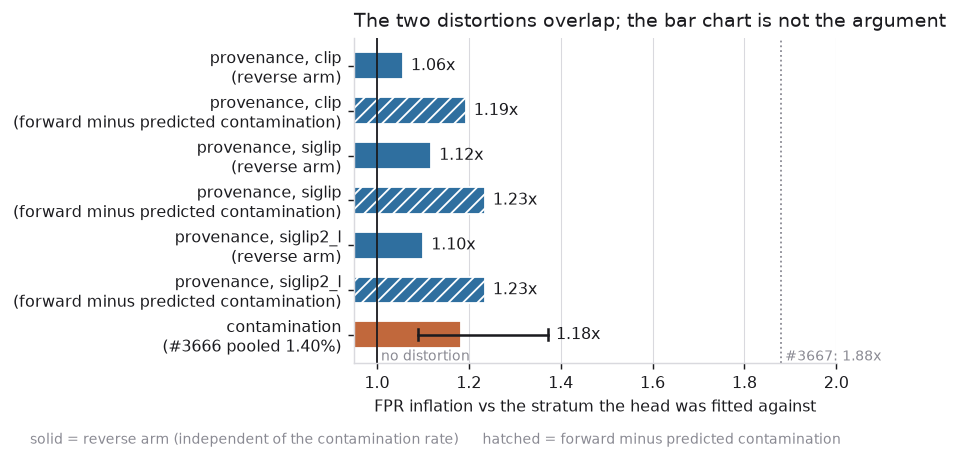
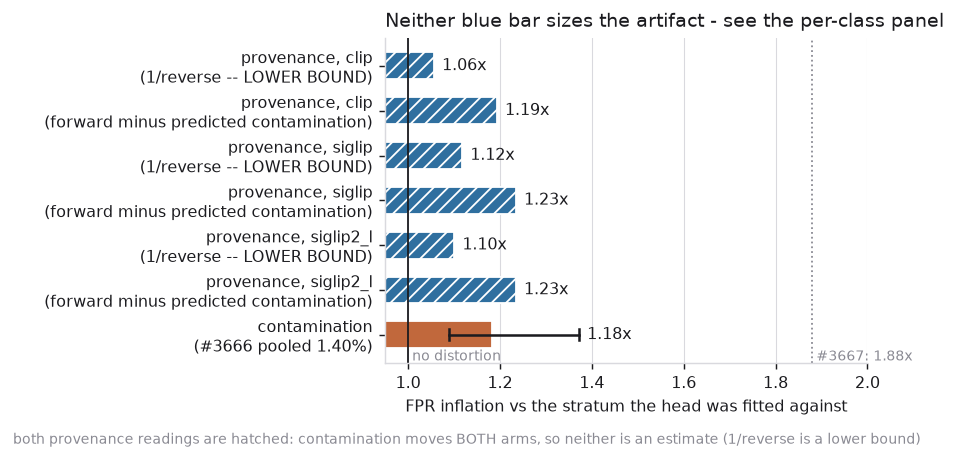
figures_3670: move the zero label off the bars it sits on (#3700)
Claude-Session: https://claude.ai/code/session_01FAnc7gMSFh43SCLGBM3zCv

diff --git a/scripts/experiments/pile/figures_3670.py b/scripts/experiments/pile/figures_3670.py
@@ -311,7 +311,9 @@ def fig_asymmetry(shortcut: dict, path: Path) -> None:
                 ys.append(pc_row["ratio"] + pc_row["ratio_reverse"] - 2.0)
         ax.bar(xs, ys, width=width, label=emb)
     ax.axhline(0.0, color=INK, lw=1.0)
-    ax.text(len(classes) - 0.5, 0.012, "pure contamination", fontsize=8, color=MUTED, ha="right", va="bottom")
+    # At the left, where the tallest bars are -- the right end is where the bars
+    # approach this line, so a label there sits on top of the data.
+    ax.text(-0.45, 0.012, "pure contamination", fontsize=8, color=MUTED, ha="left", va="bottom")
     ax.set_xticks(range(len(classes)))
     ax.set_xticklabels(classes, fontsize=8, rotation=35, ha="right")
     ax.set_ylabel("forward + reverse - 2", fontsize=9, color=INK)
